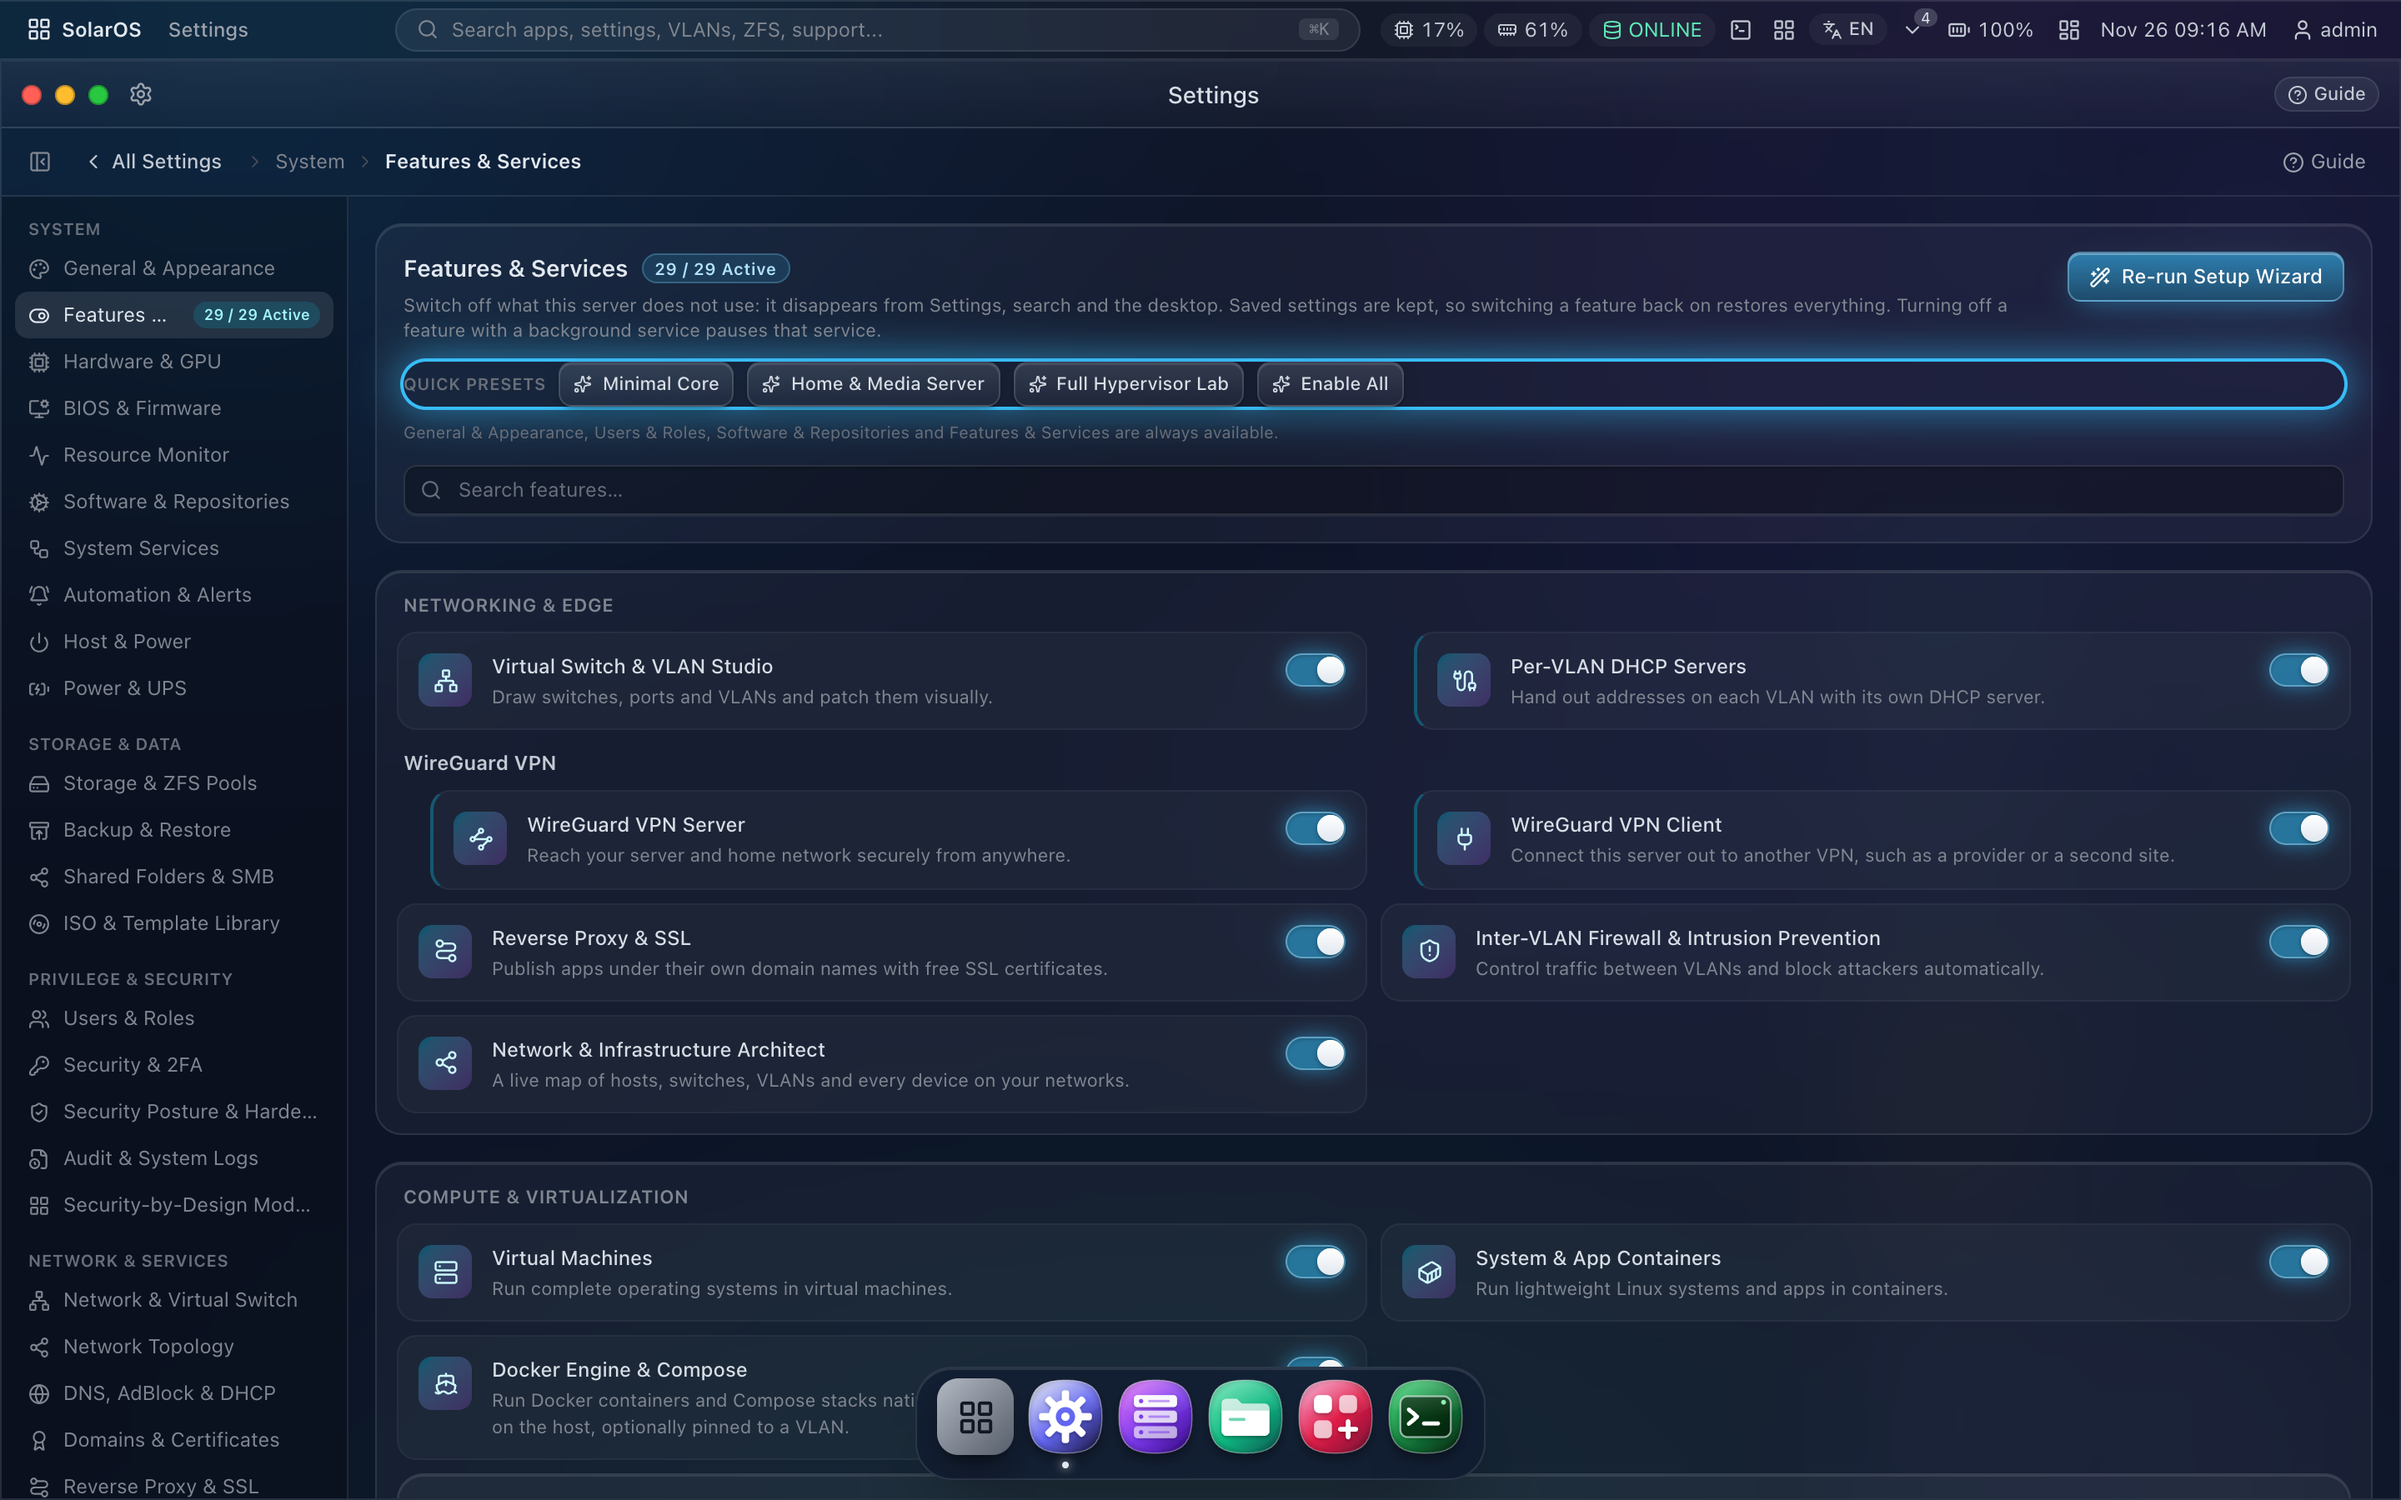
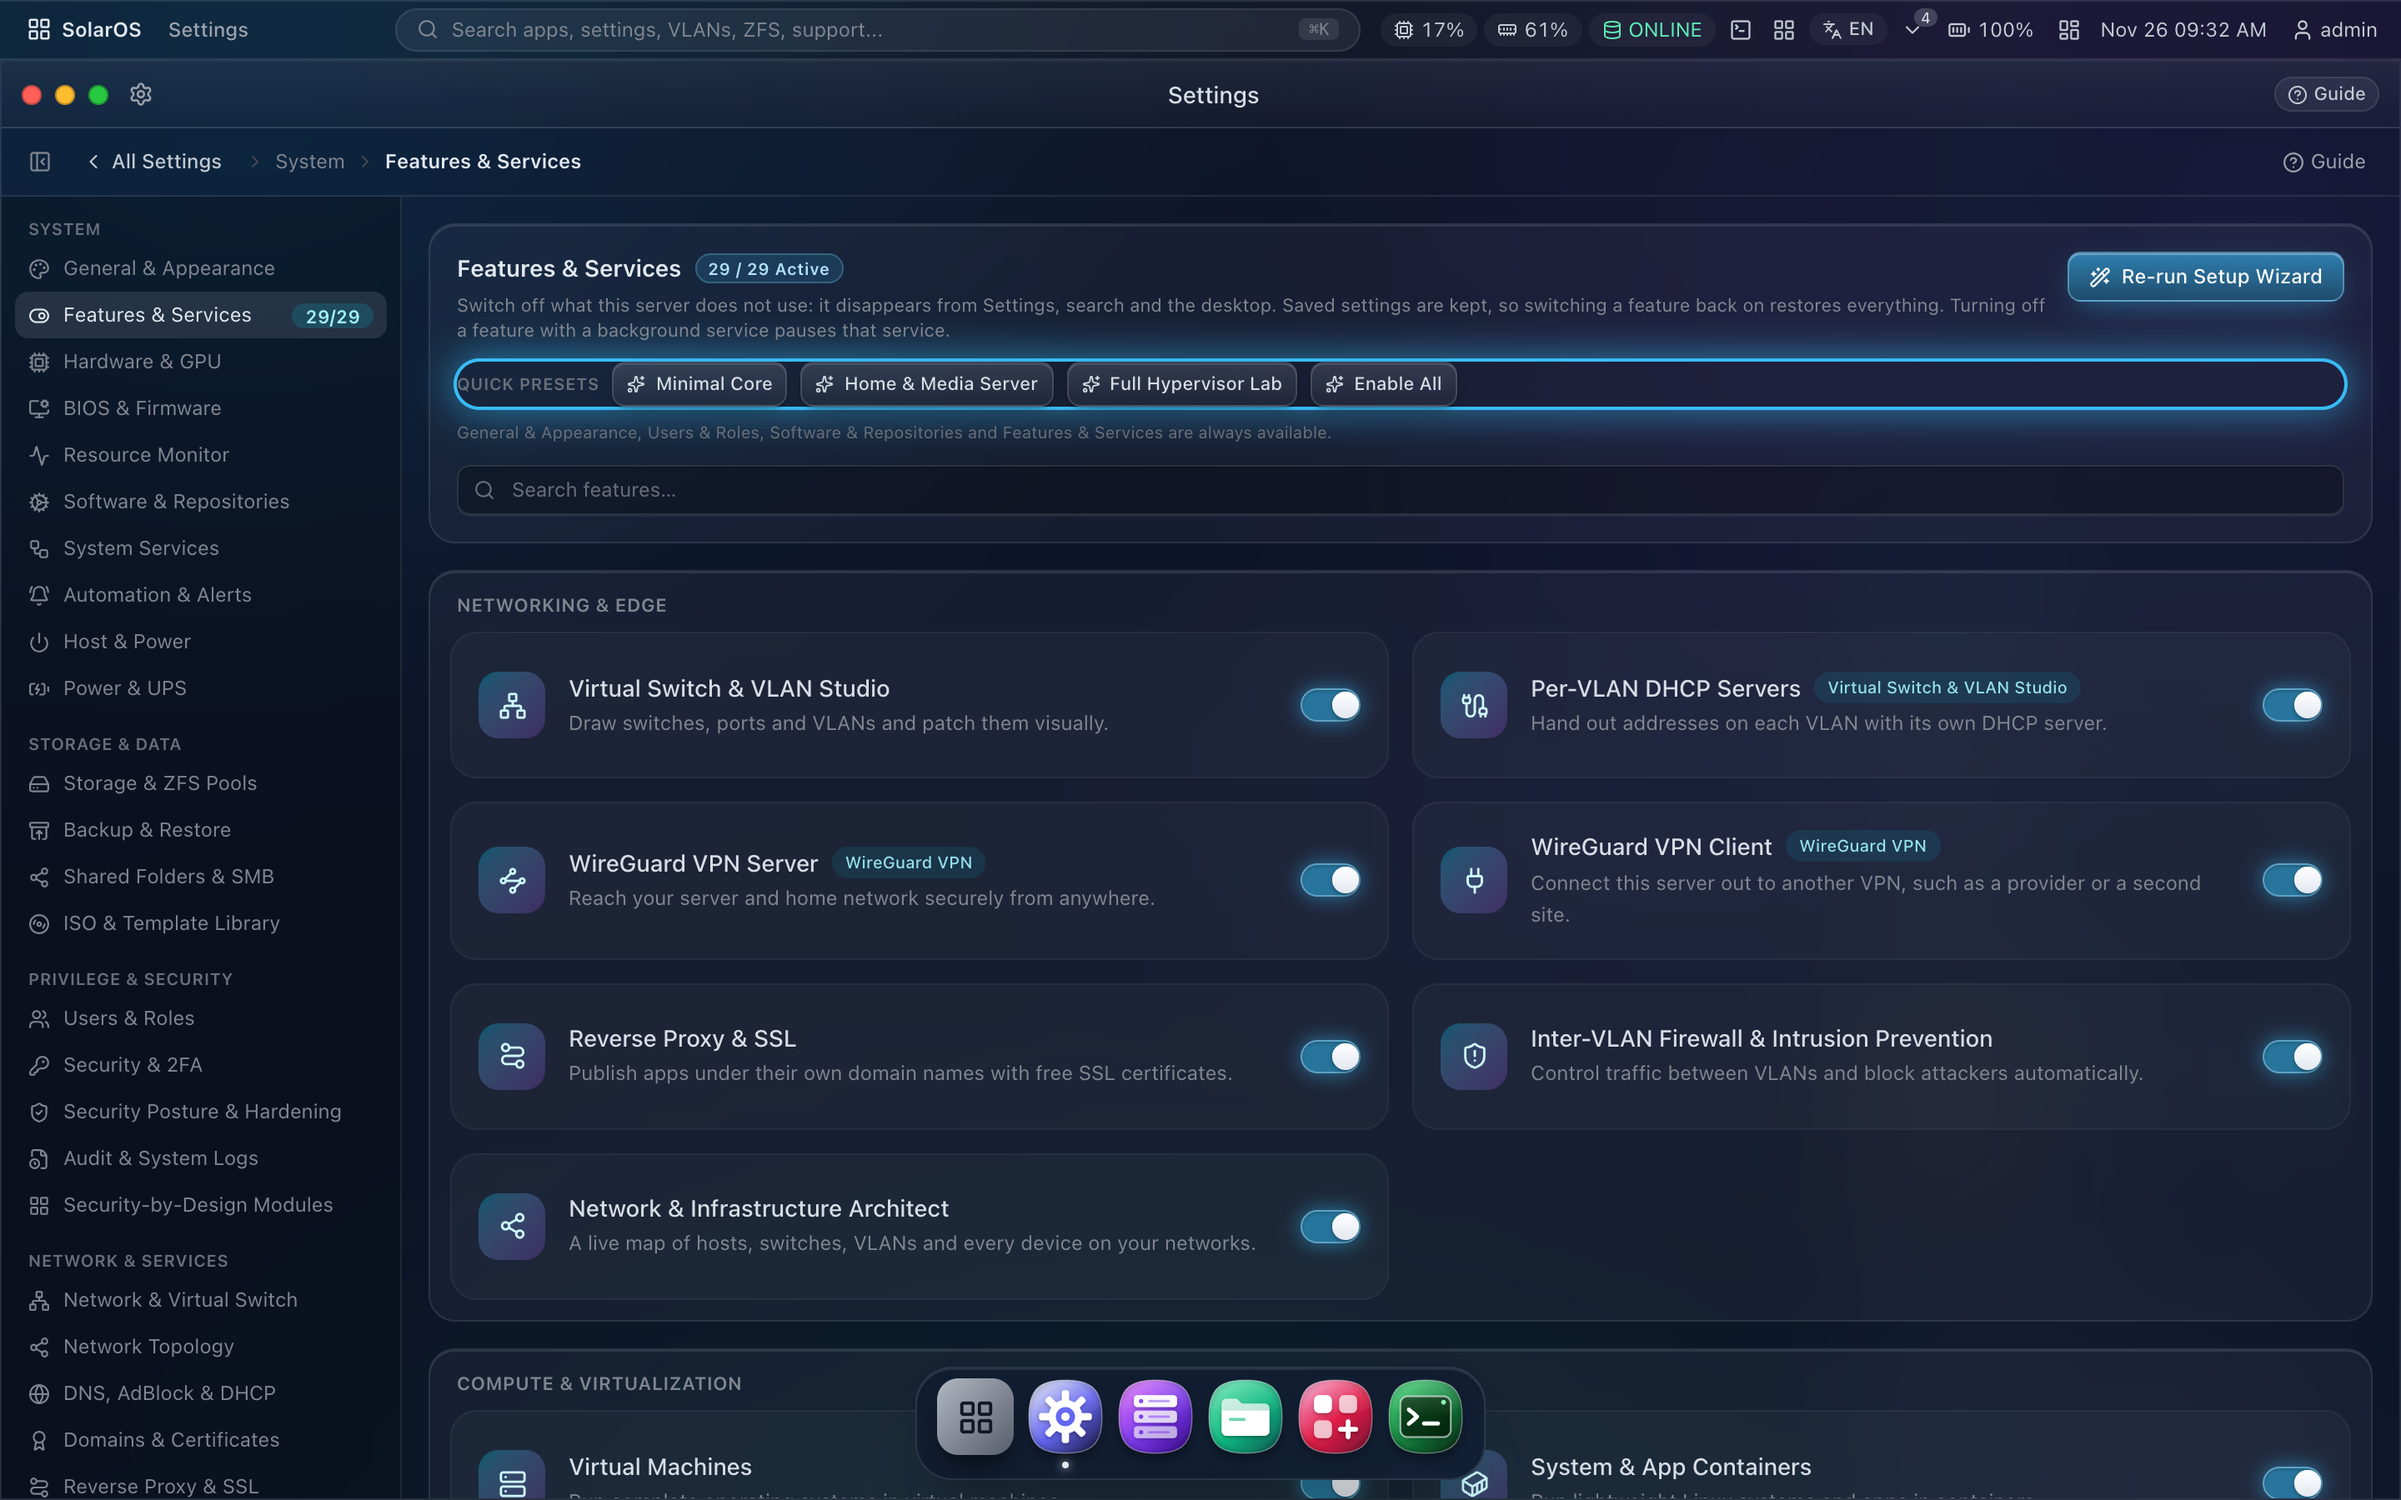
Release v2.20.2: Features & Services grid alignment, card padding and sidebar badge
Every feature card sits on one 2-column grid; sub-features show their parent as a
pill instead of an indent; uniform card height with centred switches; pb-10 on the
Settings scroll pane; wider sidebar with a compact n/total badge.

diff --git a/frontend/src/components/settings/FeaturesServicesPanel.tsx b/frontend/src/components/settings/FeaturesServicesPanel.tsx
@@ -34,7 +34,7 @@ export default function FeaturesServicesPanel() {
   const match = (k: FeatureKey) => !needle || `${t(`feat.${k}`)} ${t(`featDesc.${k}`)} ${k}`.toLowerCase().includes(needle);
 
   return (
-    <div className="space-y-4">
+    <div className="space-y-4 pb-10">
       <section className="glass-soft rounded-2xl p-4">
         <div className="flex flex-wrap items-start gap-3">
           <div className="min-w-0 flex-1">
@@ -69,26 +69,32 @@ export default function FeaturesServicesPanel() {
         return (
           <section key={d} className="glass-soft rounded-2xl p-3">
             <h4 className="px-1 pb-2 text-[11px] font-semibold tracking-wide text-slate-400 uppercase">{t(`feat.domain.${d}`)}</h4>
-            <div className="grid gap-2 lg:grid-cols-2">
-              {keys.map((k, i) => {
+            <div className="grid grid-cols-1 items-stretch gap-3.5 xl:grid-cols-2">
+              {keys.map((k) => {
                 const parent = parentOf(k);
                 const Icon = FEATURES[k].icon;
-                // A heading parent (WireGuard VPN) is printed once above its first child.
-                const heading = parent && !isFeature(parent) && (i === 0 || parentOf(keys[i - 1]) !== parent);
                 const blocked = isFeature(parent) && !on(enabled, parent);
+                // Sub-features keep the grid tracks; the parent (a feature or a heading like WireGuard VPN) is a pill.
+                const parentLabel = parent && t((isFeature(parent) ? `feat.${parent}` : `feat.group.${parent}`) as TKey);
                 return (
                   <div key={k} className="contents">
-                    {heading && <p className="col-span-full px-1 pt-1 text-xs font-semibold text-slate-200">{t(`feat.group.${parent}` as TKey)}</p>}
-                    <div className={`flex items-start gap-3 rounded-xl border border-white/5 bg-white/[0.03] p-3 ${parent ? "ml-5 border-l-2 border-l-cyan-400/30" : ""}`}>
-                      <span className="flex h-8 w-8 shrink-0 items-center justify-center rounded-lg bg-gradient-to-br from-cyan-400/30 to-violet-500/30 text-cyan-100">
-                        <Icon size={15} />
-                      </span>
-                      <div className="min-w-0 flex-1">
-                        <p className="text-xs font-medium text-slate-100">{t(`feat.${k}`)}</p>
-                        <p className="mt-0.5 text-[11px] leading-snug text-slate-400">{t(`featDesc.${k}`)}</p>
-                        {blocked && <p className="mt-0.5 text-[10px] text-amber-300/80">{t("feat.needsParent", { parent: t(`feat.${parent}`) })}</p>}
+                    <div className="flex h-full min-h-[88px] items-center justify-between gap-4 rounded-2xl border border-white/5 bg-white/[0.03] p-4">
+                      <div className="flex min-w-0 flex-1 items-center gap-3.5">
+                        <span className="flex h-10 w-10 shrink-0 items-center justify-center rounded-xl bg-gradient-to-br from-cyan-400/30 to-violet-500/30 text-cyan-100">
+                          <Icon size={17} />
+                        </span>
+                        <div className="min-w-0 flex-1">
+                          <div className="flex min-w-0 items-center gap-2">
+                            <p className="min-w-0 truncate text-sm leading-snug font-medium text-slate-100">{t(`feat.${k}`)}</p>
+                            {parentLabel && <span className="shrink-0 rounded-full bg-cyan-400/10 px-2 py-0.5 text-[10px] font-medium text-cyan-200/90">{parentLabel}</span>}
+                          </div>
+                          <p className="mt-0.5 line-clamp-2 text-xs leading-relaxed text-slate-400">{t(`featDesc.${k}`)}</p>
+                          {blocked && <p className="mt-0.5 text-[10px] text-amber-300/80">{t("feat.needsParent", { parent: t(`feat.${parent}`) })}</p>}
+                        </div>
                       </div>
-                      <GlassSwitch checked={enabled[k] !== false} disabled={busy} onChange={(v) => apply({ [k]: v })} ariaLabel={t(`feat.${k}`)} />
+                      <div className="flex shrink-0 items-center">
+                        <GlassSwitch checked={enabled[k] !== false} disabled={busy} onChange={(v) => apply({ [k]: v })} ariaLabel={t(`feat.${k}`)} />
+                      </div>
                     </div>
                     {/* Docker's runtime (isolated container or host) and network pinning are set right here. */}
                     {k === "docker_engine" && on(enabled, k) && (

diff --git a/frontend/src/apps/SettingsApp.tsx b/frontend/src/apps/SettingsApp.tsx
@@ -46,7 +46,7 @@ import StorageProtocolsPanel from "./settings/StorageProtocolsPanel";
 import ImageHubPanel from "../components/compute/ImageHubPanel";
 import FeaturesServicesPanel from "../components/settings/FeaturesServicesPanel";
 
-const pad = (n: ReactNode) => <div className="h-full space-y-4 overflow-auto p-4" data-settings-body>{n}</div>;
+const pad = (n: ReactNode) => <div className="h-full space-y-4 overflow-auto p-4 pb-10" data-settings-body>{n}</div>;
 /** An optional Security-by-Design module: its header (on/off, runtime, network), then the panel while it is on. */
 const gated = (module: ModuleKey, body: ReactNode) => pad(<SecurityModuleHeader module={module}>{() => body}</SecurityModuleHeader>);
 
@@ -260,12 +260,14 @@ function HostSummary({ query, setQuery, onEnter }: { query: string; setQuery: (q
   );
 }
 
-/** "14 / 28 Active" on the Features & Services entry. */
-function FeatureCount() {
+/** "14 / 28 Active" on the Features & Services tile; a compact "14/28" in the narrow sidebar. */
+function FeatureCount({ compact }: { compact?: boolean }) {
   const { t } = useTranslation();
   const enabled = useFeatures((s) => s.enabled);
   const n = FEATURE_KEYS.filter((k) => on(enabled, k)).length;
-  return <span className="shrink-0 rounded-full bg-cyan-400/15 px-1.5 py-0.5 text-[9px] font-semibold text-cyan-200 tabular-nums">{t("feat.count", { n, total: FEATURE_KEYS.length })}</span>;
+  const full = t("feat.count", { n, total: FEATURE_KEYS.length });
+  if (compact) return <span title={full} aria-label={full} className="shrink-0 rounded-full bg-cyan-400/15 px-2 py-0.5 text-[11px] leading-none font-semibold text-cyan-200 tabular-nums">{n}/{FEATURE_KEYS.length}</span>;
+  return <span className="shrink-0 rounded-full bg-cyan-400/15 px-1.5 py-0.5 text-[9px] font-semibold text-cyan-200 tabular-nums">{full}</span>;
 }
 
 function Tile({ id, onOpen, dot }: { id: ModuleId; onOpen: () => void; dot?: string }) {
@@ -344,7 +346,7 @@ export default function SettingsApp() {
         </nav>
         <div className="flex min-h-0 flex-1">
           {tree && (
-            <aside className="w-52 shrink-0 overflow-auto border-r border-white/10 bg-black/20 p-2 max-sm:hidden">
+            <aside className="w-60 shrink-0 overflow-auto border-r border-white/10 bg-black/20 p-2 max-sm:hidden">
               {CATEGORIES.map((c) => (
                 <div key={c} className="mb-2">
                   <p className="px-2 pt-1 pb-0.5 text-[10px] font-semibold tracking-wide text-slate-500 uppercase">{t(`set.cat.${c}`)}</p>
@@ -358,7 +360,7 @@ export default function SettingsApp() {
                         className={`flex w-full items-center gap-2 rounded-lg px-2 py-1.5 text-left text-xs transition ${id === module ? "bg-white/12 text-white" : "text-slate-400 hover:bg-white/5 hover:text-slate-200"}`}
                       >
                         <Icon size={13} className="shrink-0" /> <span className="min-w-0 flex-1 truncate">{t(`set.mod.${id}`)}</span>
-                        {id === "features-services" && <FeatureCount />}
+                        {id === "features-services" && <FeatureCount compact />}
                       </button>
                     );
                   })}

diff --git a/CHANGELOG.md b/CHANGELOG.md
@@ -1,5 +1,12 @@
 # Changelog
 
+## v2.20.2 - Features & Services grid alignment — 2026-11-26
+
+### Fixed
+- **Settings → System → Features & Services**: every feature card now sits on one two-column grid with shared left edges, centre gutter and right edges. Sub-features (WireGuard VPN Server and Client, Per-VLAN DHCP Servers) are no longer indented; a small pill next to the title names their parent. Cards have one height, icon box and padding, and the switch stays vertically centred whether the description takes one line or two.
+- The last card of a Settings page is no longer clipped at the bottom of the scroll area.
+- The Settings sidebar is wider and shows a compact `n/total` badge, so **Features & Services** (and other long names) no longer truncate.
+
 ## v2.20.1 - Module worker network fix — 2026-11-26
 
 ### Fixed
